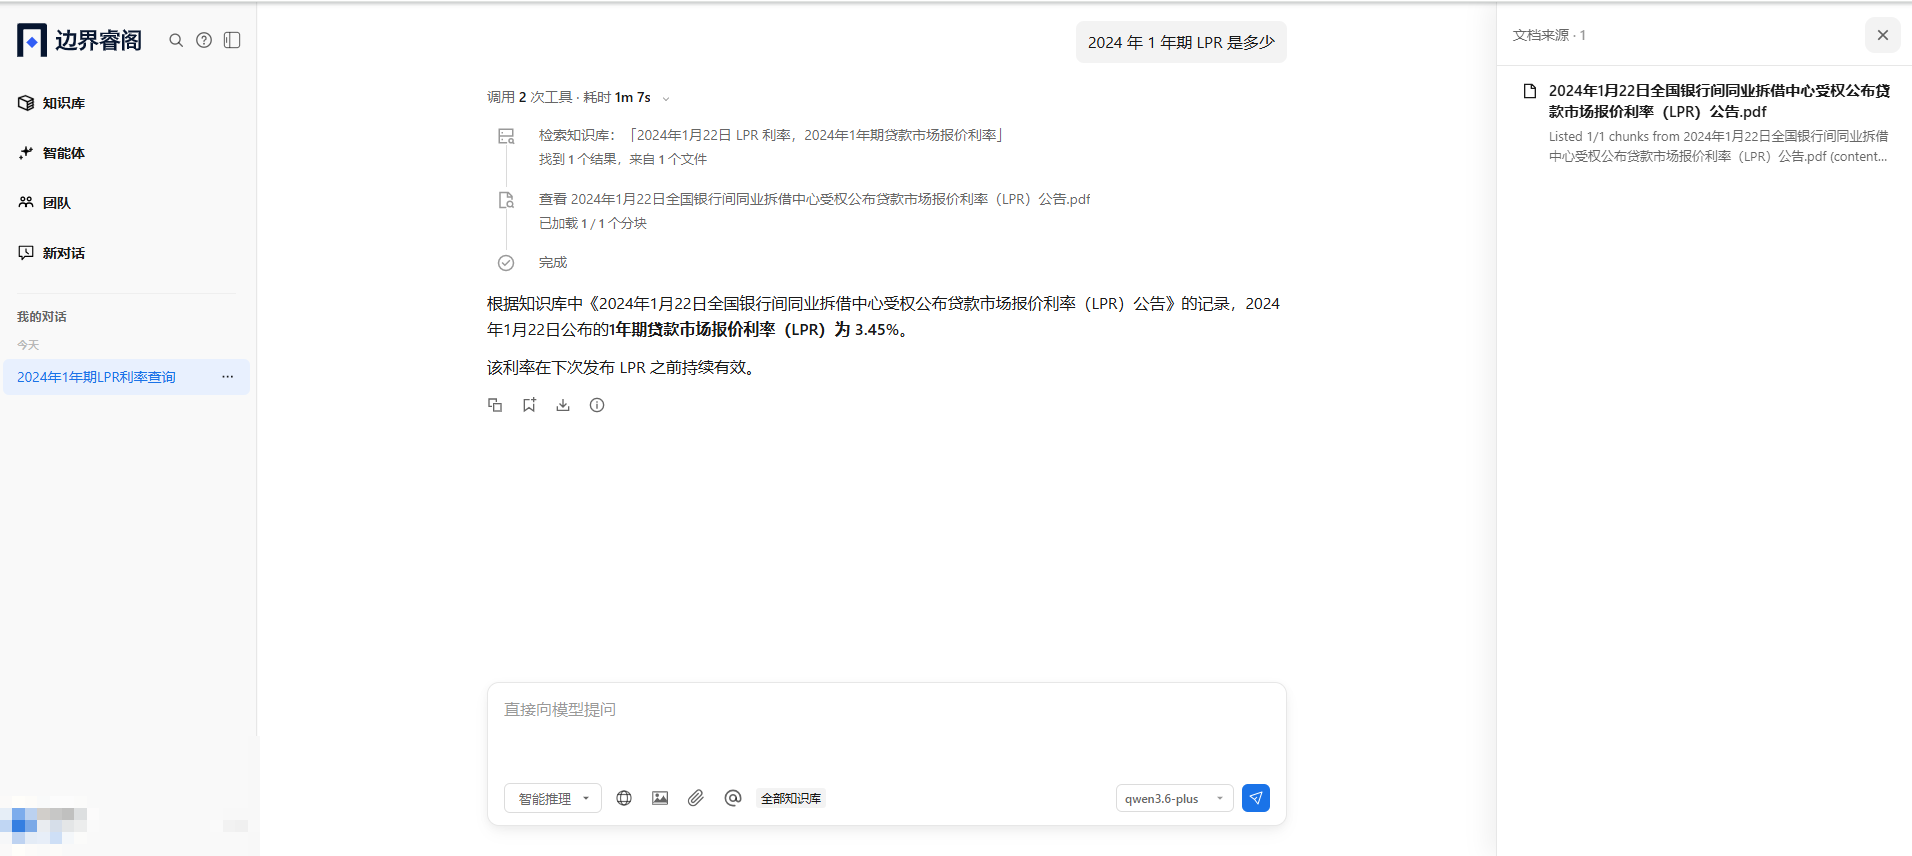
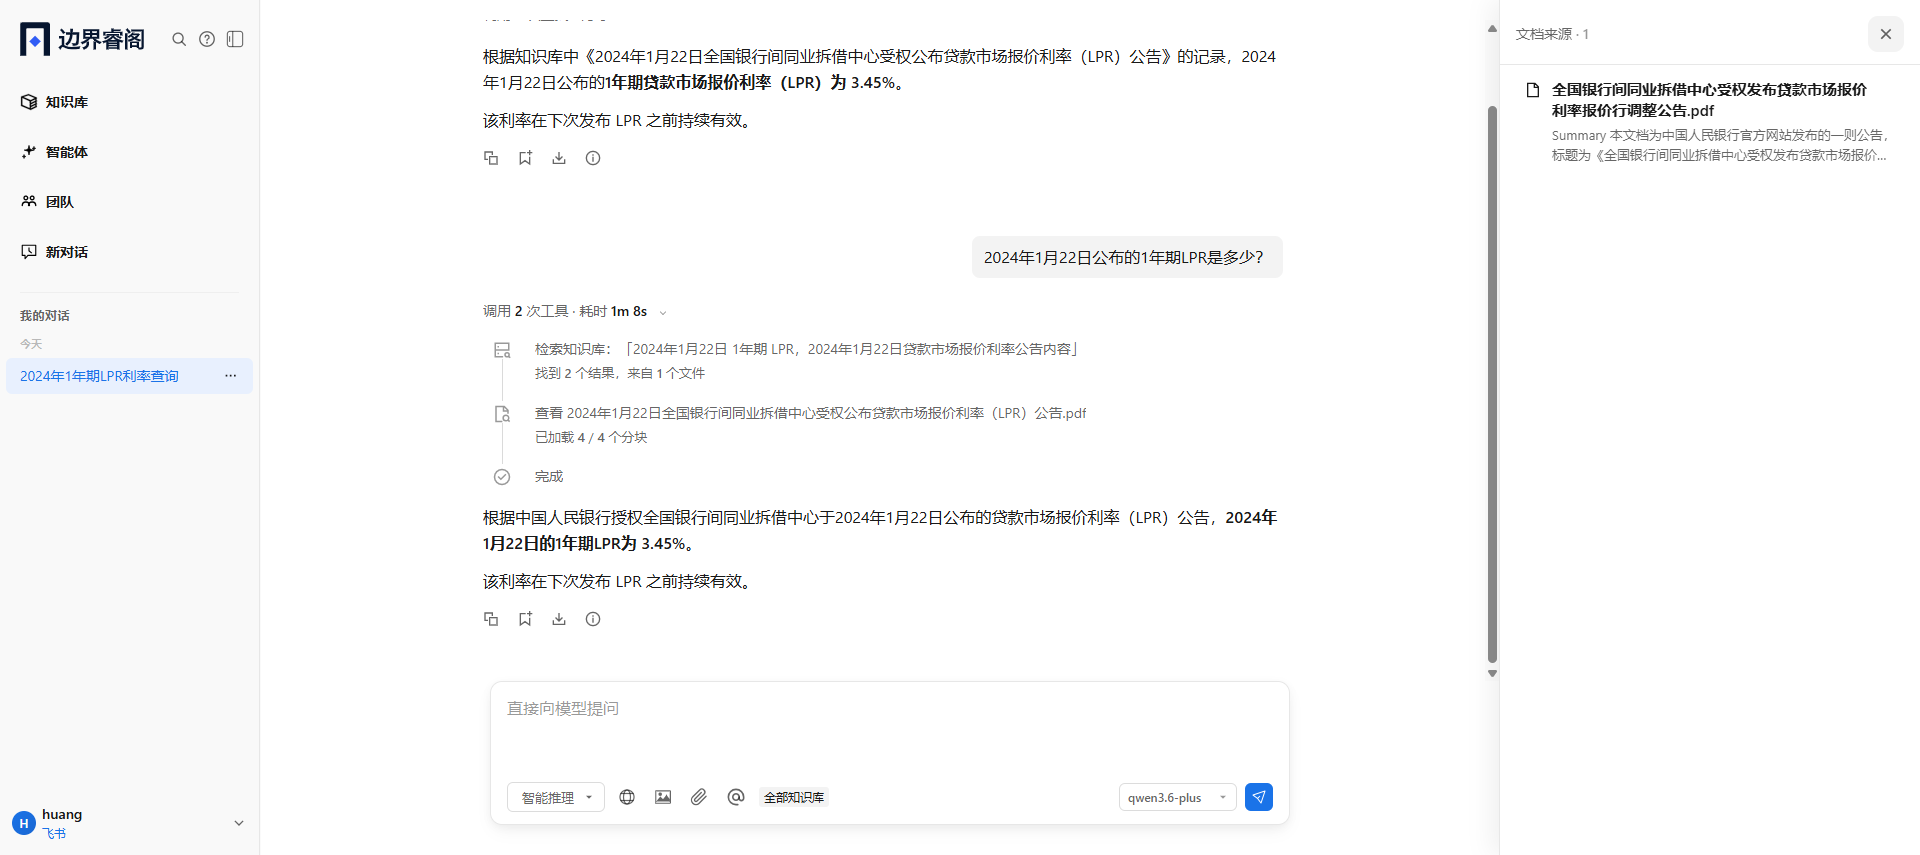
docs: 补充 IM 问答闭环流程图与文档来源实拍截图

diff --git a/zh/how-to/10-im-bot.md b/zh/how-to/10-im-bot.md
@@ -4,6 +4,9 @@ title: "IM 机器人（钉钉 / 飞书）"
 
 ## 概述
 
+![IM 智能问答闭环](/images/ht-10-im-flow.png)
+
+
 边界睿阁支持将智能体接入**钉钉或飞书**，成员在 IM 中**私聊提问**，机器人按该用户在系统内的权限**裁剪检索**后作答，便于在办公软件内直接使用企业知识。
 
 读完本篇后，你将了解 IM Bot 的适用前提、绑定方式与会话规则。
